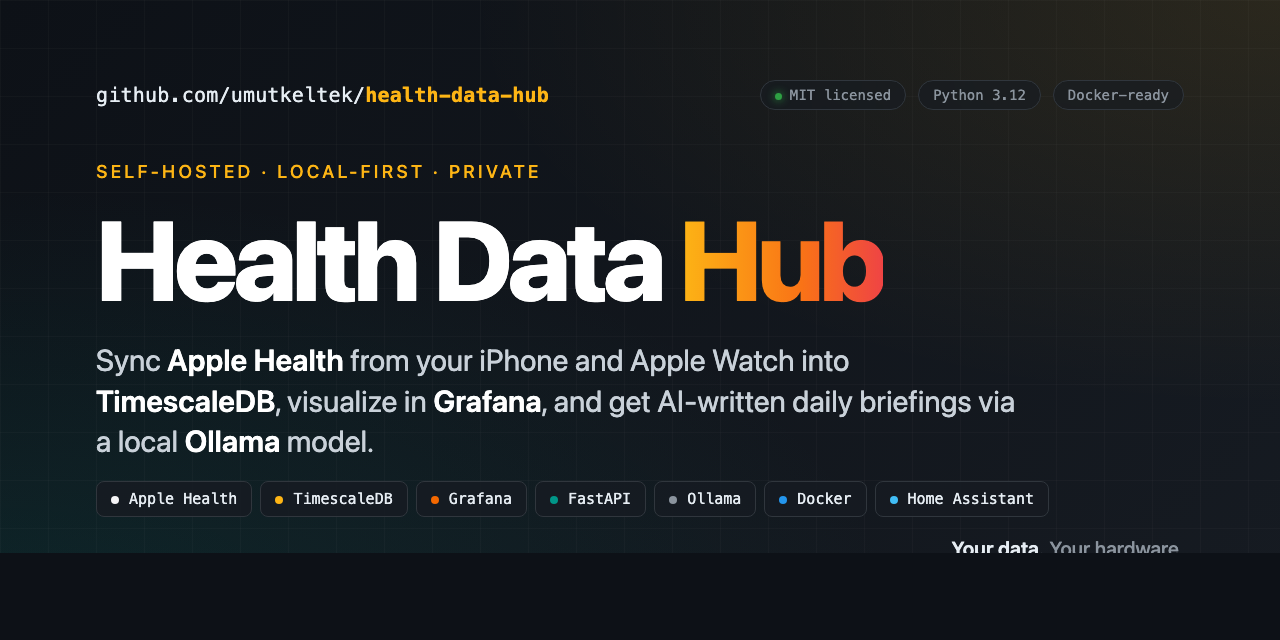
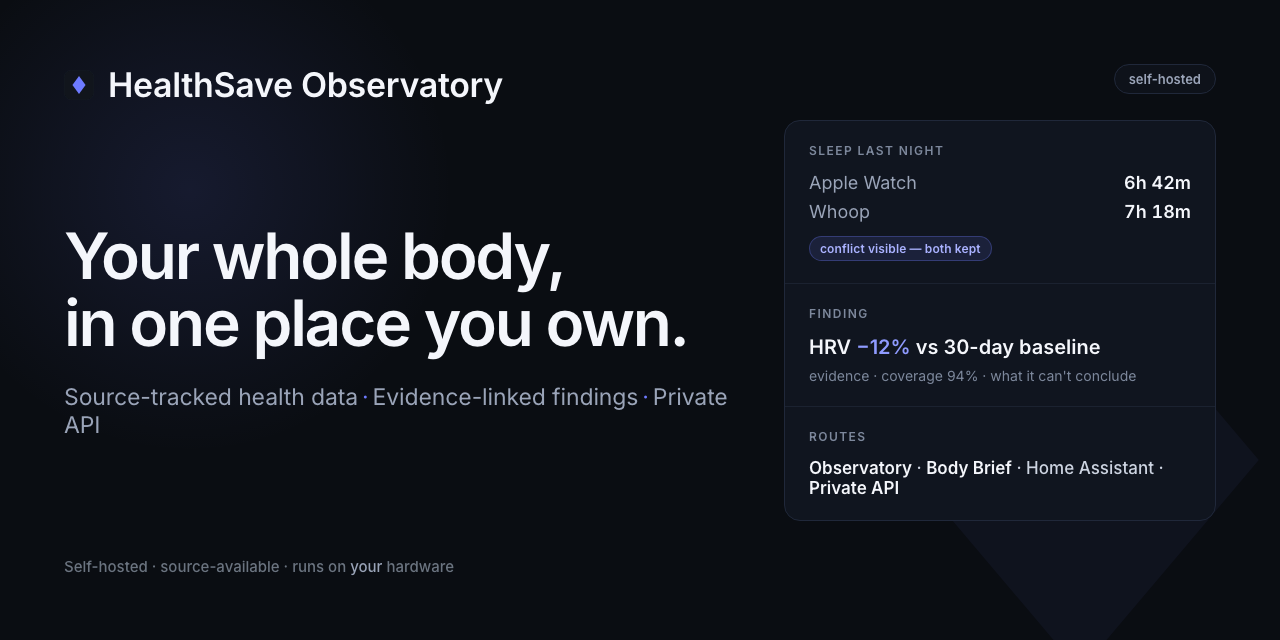
design: clean Observatory social card (Oracle-spec) — preview branch only

diff --git a/.github/social-preview.html b/.github/social-preview.html
@@ -2,218 +2,100 @@
 <html>
 <head>
 <meta charset="utf-8" />
-<title>Health Data Hub - Social Preview</title>
+<title>HealthSave Observatory — Social Preview</title>
 <style>
-  @import url('https://fonts.googleapis.com/css2?family=Inter:wght@400;500;600;800&family=JetBrains+Mono:wght@400;600&display=swap');
-
+  @import url('https://fonts.googleapis.com/css2?family=Inter:wght@400;500;600;700&display=swap');
   * { box-sizing: border-box; margin: 0; padding: 0; }
-
   html, body {
-    width: 1280px;
-    height: 640px;
+    width: 1280px; height: 640px;
     font-family: 'Inter', system-ui, -apple-system, sans-serif;
-    color: #e6edf3;
-    background: #0d1117;
-    overflow: hidden;
+    background: #0a0d12; color: #f4f6fb; overflow: hidden;
+    -webkit-font-smoothing: antialiased;
   }
+  .card { position: relative; width: 1280px; height: 640px; padding: 64px; display: flex; gap: 56px; }
 
-  .card {
-    width: 1280px;
-    height: 640px;
-    padding: 80px 96px;
-    background:
-      radial-gradient(ellipse at top right, rgba(253, 181, 21, 0.10) 0%, transparent 45%),
-      radial-gradient(ellipse at bottom left, rgba(0, 150, 136, 0.14) 0%, transparent 50%),
-      linear-gradient(135deg, #0d1117 0%, #161b22 100%);
-    position: relative;
-    display: flex;
-    flex-direction: column;
-    justify-content: space-between;
-  }
-
-  .card::after {
-    content: "";
-    position: absolute;
-    inset: 0;
-    background-image:
-      linear-gradient(rgba(255, 255, 255, 0.025) 1px, transparent 1px),
-      linear-gradient(90deg, rgba(255, 255, 255, 0.025) 1px, transparent 1px);
-    background-size: 48px 48px;
+  /* subtle indigo radial glow behind the mark, ~10% */
+  .glow {
+    position: absolute; top: -120px; left: -120px; width: 620px; height: 620px;
+    background: radial-gradient(circle at center, rgba(110,123,255,0.12) 0%, transparent 60%);
     pointer-events: none;
   }
+  /* faint oversized diamond watermark behind the panel */
+  .watermark { position: absolute; right: -60px; bottom: -80px; width: 520px; height: 520px; opacity: 0.05; pointer-events: none; }
 
-  .card > * { position: relative; z-index: 1; }
+  .left { position: relative; z-index: 2; flex: 1; display: flex; flex-direction: column; }
+  .brand { display: flex; align-items: center; gap: 14px; }
+  .brand .name { font-size: 34px; font-weight: 600; letter-spacing: -0.01em; color: #f4f6fb; }
 
-  .top-row {
-    display: flex;
-    align-items: center;
-    justify-content: space-between;
+  .headline { margin-top: auto; font-size: 64px; font-weight: 600; letter-spacing: -0.035em; line-height: 1.04; color: #f4f6fb; }
+  .sub { margin-top: 26px; font-size: 23px; font-weight: 400; color: #9aa4b8; letter-spacing: -0.005em; }
+  .sub .sep { color: #6e7bff; padding: 0 4px; }
+
+  .foot { margin-top: auto; font-size: 15px; color: #6b7480; font-weight: 500; }
+  .foot .mono { color: #9aa4b8; }
+
+  /* right panel — a restrained Observatory UI fragment */
+  .panel {
+    position: relative; z-index: 2; width: 432px; align-self: center;
+    background: #10151f; border: 1px solid #20283a; border-radius: 16px; overflow: hidden;
   }
-
-  .slug {
-    font-family: 'JetBrains Mono', monospace;
-    font-size: 20px;
-    color: #8b949e;
-    letter-spacing: 0.01em;
-  }
-
-  .slug .user { color: #e6edf3; }
-  .slug .repo { color: #fdb515; font-weight: 600; }
-
-  .badges {
-    display: flex;
-    gap: 12px;
-  }
-
-  .badge {
-    font-family: 'JetBrains Mono', monospace;
-    font-size: 14px;
-    color: #8b949e;
-    padding: 6px 14px;
-    border: 1px solid #30363d;
-    border-radius: 999px;
-    background: rgba(22, 27, 34, 0.6);
-    backdrop-filter: blur(4px);
-  }
-
-  .badge.live::before {
-    content: "";
-    display: inline-block;
-    width: 7px;
-    height: 7px;
-    margin-right: 8px;
-    border-radius: 50%;
-    background: #2ea043;
-    vertical-align: middle;
-    box-shadow: 0 0 8px #2ea043;
-  }
-
-  .middle {
-    margin-top: 40px;
-  }
-
-  .eyebrow {
-    font-size: 18px;
-    font-weight: 500;
-    color: #fdb515;
-    text-transform: uppercase;
-    letter-spacing: 0.18em;
-    margin-bottom: 24px;
-  }
-
-  h1 {
-    font-size: 112px;
-    font-weight: 800;
-    letter-spacing: -0.04em;
-    line-height: 0.95;
-    color: #ffffff;
-  }
-
-  h1 .accent {
-    background: linear-gradient(90deg, #fdb515 0%, #f97316 60%, #ef4444 100%);
-    -webkit-background-clip: text;
-    background-clip: text;
-    -webkit-text-fill-color: transparent;
-  }
-
-  .subtitle {
-    margin-top: 28px;
-    font-size: 30px;
-    font-weight: 400;
-    line-height: 1.35;
-    color: #c9d1d9;
-    max-width: 920px;
-  }
-
-  .subtitle b { color: #ffffff; font-weight: 600; }
-
-  .stack {
-    display: flex;
-    flex-wrap: nowrap;
-    gap: 8px;
-    margin-top: 8px;
-  }
-
-  .chip {
-    font-family: 'JetBrains Mono', monospace;
-    font-size: 15px;
-    font-weight: 500;
-    padding: 8px 14px;
-    border-radius: 8px;
-    background: rgba(22, 27, 34, 0.85);
-    border: 1px solid #30363d;
-    color: #e6edf3;
-    white-space: nowrap;
-  }
-
-  .chip .dot {
-    display: inline-block;
-    width: 8px;
-    height: 8px;
-    border-radius: 50%;
-    margin-right: 10px;
-    vertical-align: middle;
-  }
-
-  .dot.apple       { background: #f5f5f7; }
-  .dot.timescale   { background: #fdb515; }
-  .dot.grafana     { background: #f46800; }
-  .dot.ollama      { background: #8b949e; }
-  .dot.fastapi     { background: #009688; }
-  .dot.docker      { background: #2496ed; }
-  .dot.home        { background: #41bdf5; }
-
-  .footer {
-    display: flex;
-    flex-direction: column;
-    gap: 20px;
-  }
-
-  .tagline {
-    font-size: 20px;
-    font-weight: 500;
-    color: #8b949e;
-    text-align: right;
-  }
-  .tagline b { color: #e6edf3; font-weight: 600; }
+  .sec { padding: 22px 24px; }
+  .sec + .sec { border-top: 1px solid #1b2230; }
+  .label { font-size: 12px; font-weight: 600; letter-spacing: 0.12em; text-transform: uppercase; color: #7d889c; margin-bottom: 14px; }
+  .row { display: flex; align-items: baseline; justify-content: space-between; font-size: 18px; }
+  .row + .row { margin-top: 8px; }
+  .row .src { color: #9aa4b8; font-weight: 400; }
+  .row .val { color: #f4f6fb; font-weight: 600; font-variant-numeric: tabular-nums; }
+  .chip { display: inline-block; margin-top: 14px; font-size: 12px; font-weight: 600;
+          color: #aab2ff; background: rgba(110,123,255,0.12); border: 1px solid rgba(110,123,255,0.3);
+          padding: 4px 10px; border-radius: 999px; letter-spacing: 0.01em; }
+  .finding { font-size: 20px; font-weight: 600; color: #f4f6fb; }
+  .finding .delta { color: #8f9bff; }
+  .meta { margin-top: 8px; font-size: 14px; color: #7d889c; }
+  .routes { font-size: 17px; font-weight: 500; color: #cdd4e1; }
+  .routes b { color: #f4f6fb; font-weight: 600; }
+  .self { position: absolute; top: 64px; right: 64px; z-index: 3; font-size: 13px; font-weight: 600;
+          color: #9aa4b8; border: 1px solid #20283a; border-radius: 999px; padding: 6px 14px; background: rgba(16,21,31,0.6); }
 </style>
 </head>
 <body>
   <div class="card">
+    <div class="glow"></div>
+    <svg class="watermark" viewBox="0 0 32 32" xmlns="http://www.w3.org/2000/svg"><path d="M16 3l11 13-11 13L5 16z" fill="#6e7bff"/></svg>
+    <div class="self">self-hosted</div>
 
-    <div class="top-row">
-      <div class="slug">
-        <span class="user">github.com/umutkeltek/</span><span class="repo">health-data-hub</span>
+    <div class="left">
+      <div class="brand">
+        <svg width="30" height="30" viewBox="0 0 32 32" xmlns="http://www.w3.org/2000/svg">
+          <rect width="32" height="32" rx="8" fill="#11151c" stroke="#26304333"/>
+          <path d="M16 6.5l7 9.5-7 9.5-7-9.5z" fill="#6e7bff"/>
+        </svg>
+        <div class="name">HealthSave Observatory</div>
       </div>
-      <div class="badges">
-        <span class="badge live">Elastic License 2.0</span>
-        <span class="badge">Python 3.12</span>
-        <span class="badge">Docker-ready</span>
-      </div>
+
+      <div class="headline">Your whole body,<br/>in one place you own.</div>
+      <div class="sub">Source-tracked health data<span class="sep">·</span>Evidence-linked findings<span class="sep">·</span>Private API</div>
+
+      <div class="foot">Self-hosted · source-available · runs on <span class="mono">your</span> hardware</div>
     </div>
 
-    <div class="middle">
-      <div class="eyebrow">Self-hosted · Local-first · Private</div>
-      <h1>Health Data <span class="accent">Hub</span></h1>
-      <div class="subtitle">
-        Sync <b>Apple Health</b> from your iPhone and Apple Watch into <b>TimescaleDB</b>,
-        visualize in <b>Grafana</b>, and get AI-written daily briefings via a local <b>Ollama</b> model.
+    <div class="panel">
+      <div class="sec">
+        <div class="label">Sleep last night</div>
+        <div class="row"><span class="src">Apple Watch</span><span class="val">6h 42m</span></div>
+        <div class="row"><span class="src">Whoop</span><span class="val">7h 18m</span></div>
+        <div class="chip">conflict visible — both kept</div>
+      </div>
+      <div class="sec">
+        <div class="label">Finding</div>
+        <div class="finding">HRV <span class="delta">−12%</span> vs 30-day baseline</div>
+        <div class="meta">evidence · coverage 94% · what it can't conclude</div>
+      </div>
+      <div class="sec">
+        <div class="label">Routes</div>
+        <div class="routes"><b>Observatory</b> · <b>Body Brief</b> · Home Assistant · <b>Private API</b></div>
       </div>
     </div>
-
-    <div class="footer">
-      <div class="stack">
-        <span class="chip"><span class="dot apple"></span>Apple Health</span>
-        <span class="chip"><span class="dot timescale"></span>TimescaleDB</span>
-        <span class="chip"><span class="dot grafana"></span>Grafana</span>
-        <span class="chip"><span class="dot fastapi"></span>FastAPI</span>
-        <span class="chip"><span class="dot ollama"></span>Ollama</span>
-        <span class="chip"><span class="dot docker"></span>Docker</span>
-        <span class="chip"><span class="dot home"></span>Home Assistant</span>
-      </div>
-      <div class="tagline"><b>Your data.</b> Your hardware.</div>
-    </div>
-
   </div>
 </body>
 </html>